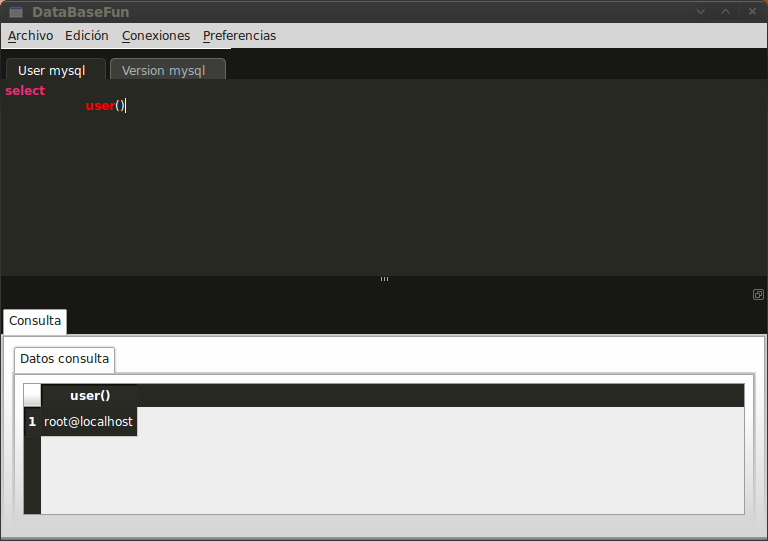
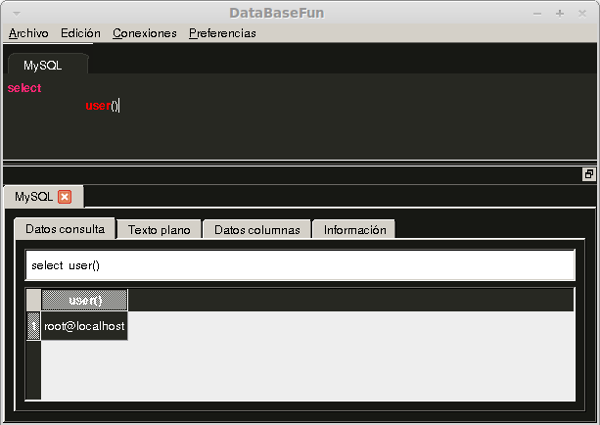
Actualizado README e imágenes con la última versión de la aplicación.

diff --git a/README.md b/README.md
@@ -26,11 +26,11 @@ Programación
 ===========
 
 * JDK Java 7 (http://www.java.com/es/download/)
-* QT Jambi 4.7 (http://qt-jambi.org/downloads)
+* QT Jambi 4.6.3 (http://qt-jambi.org/downloads)
 
 Capturas de pantalla
 ===========
 
 ![ScreenShot](https://raw.github.com/miguelgonzalez/DataBaseFun/master/imgReadme/User_MySQL.png)
 
-![ScreenShot](https://raw.github.com/miguelgonzalez/DataBaseFun/master/imgReadme/Version_MySQL.png)
+![ScreenShot](https://raw.github.com/miguelgonzalez/DataBaseFun/master/imgReadme/User_MySQL_Info.png)
